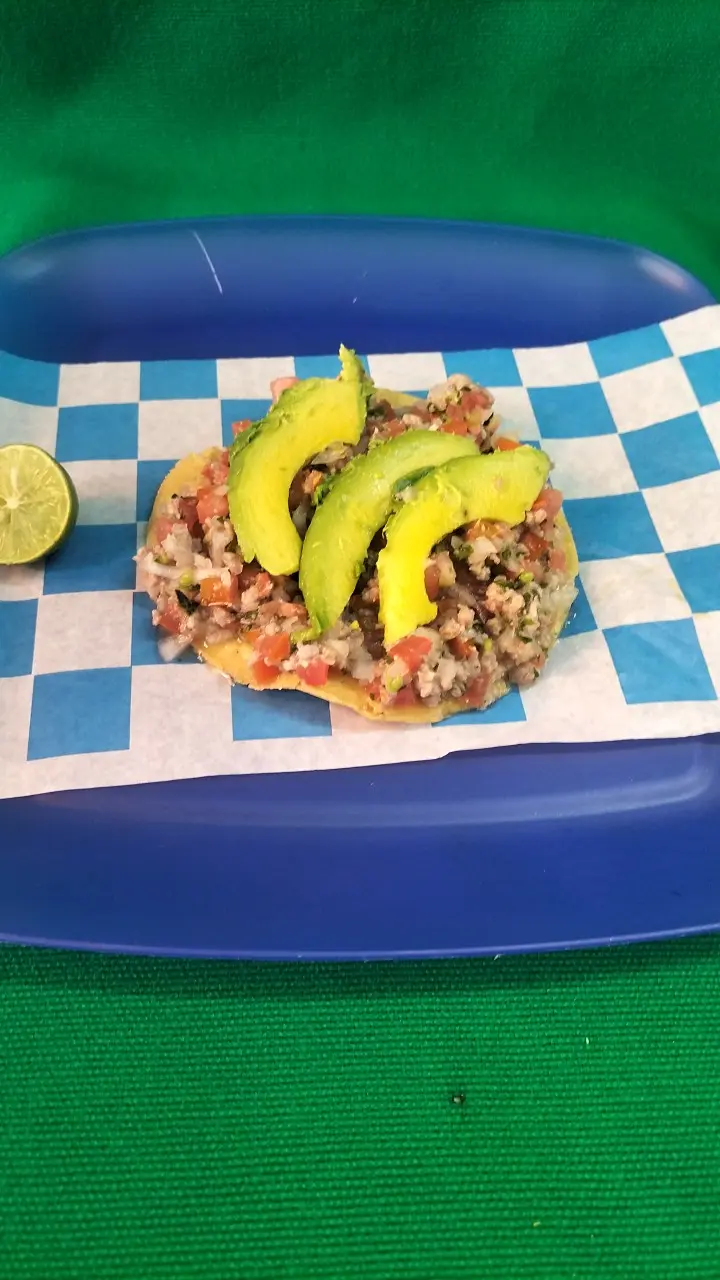
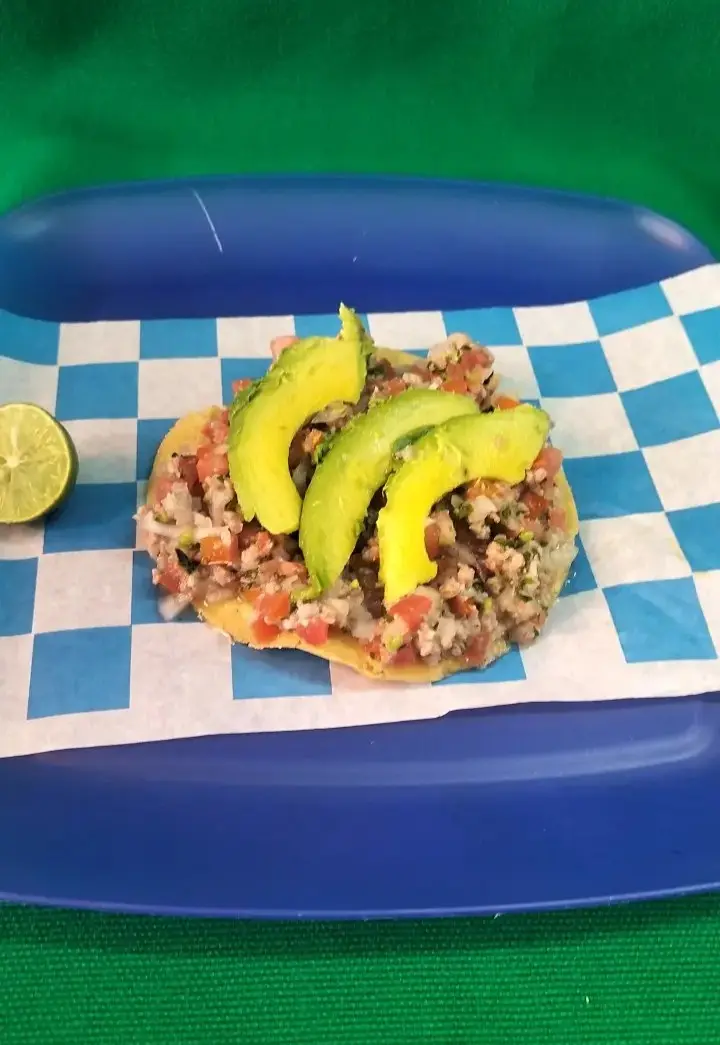
actualizar texto e imágenes

diff --git a/index.html b/index.html
@@ -46,7 +46,7 @@
     <div class="hero-content">
       <span class="hero-badge">🌊 Frescos cada día · Uruapan, Mich.</span>
       <h1>El antojo<br>que estabas<br><span class="highlight">esperando.</span></h1>
-      <p>Ceviches, aguachiles y especiales preparados al momento con la receta y toque especial del Vickaz.</p>
+      <p>Ceviches, aguachiles y especiales preparados con la receta y toque especial del Vickaz.</p>
       <div class="hero-ctas">
         <a href="#menu" class="btn-primary">Ver el menú</a>
         <button class="btn-wa" type="button" id="heroCart">🛒 Crear pedido</button>
@@ -59,9 +59,9 @@
 
   <section class="menu" id="menu">
     <div class="section-header">
-      <span class="section-tag">🍽 Hecho al momento</span>
+      <span class="section-tag">🍽 Servido al momento</span>
       <h2>Nuestro Menú</h2>
-      <p>Elige tu platillo, presentación y cantidad. Tu pedido se arma automáticamente.</p>
+      <p>Arma tu pedido: Elige tu platillo, presentación y cantidad.</p>
     </div>
 
     <div class="menu-toolbar" aria-label="Filtros del menú">
@@ -94,7 +94,7 @@
 
   <section class="trust-band">
     <div class="trust-item"><span>🌊</span><p>Mariscos frescos<br>cada día</p></div>
-    <div class="trust-item"><span>⚡</span><p>Preparación<br>al momento</p></div>
+    <div class="trust-item"><span>⚡</span><p>Servido<br>al momento</p></div>
     <div class="trust-item"><span>📍</span><p>Uruapan,<br>Michoacán</p></div>
     <div class="trust-item"><span>❤</span><p>+10 años<br>de sabor</p></div>
   </section>

diff --git a/index.js b/index.js
@@ -129,7 +129,7 @@ const productData = [
     label: 'Tostada de aguachile · Salsa de mango',
     emoji: '🥭',
     image: "./assets/aguachile-mango.webp",
-    description: 'Camarón, cebolla morada, pepino y mango.',
+    description: 'Camarón, cebolla morada, pepino y salsa de mango.',
     fixedPrice: 30
   },
   {
@@ -138,7 +138,7 @@ const productData = [
     label: 'Tostada mixta',
     emoji: '🐙',
     image: "./assets/tostada-mixta.webp",
-    description: 'Pulpo, camarón y tilapia, jitomate, cebolla blanca, cilantro y limón.',
+    description: 'Pulpo, camarón, tilapia, jitomate, cebolla blanca, cilantro y limón.',
     fixedPrice: 30
   },
   {
@@ -333,7 +333,7 @@ function renderMenu() {
     [
       'ceviches',
       'Ceviches',
-      'Frescos, cítricos y preparados al momento.'
+      'Frescos, cítricos y servidos al momento.'
     ],
     [
       'aguachiles',
